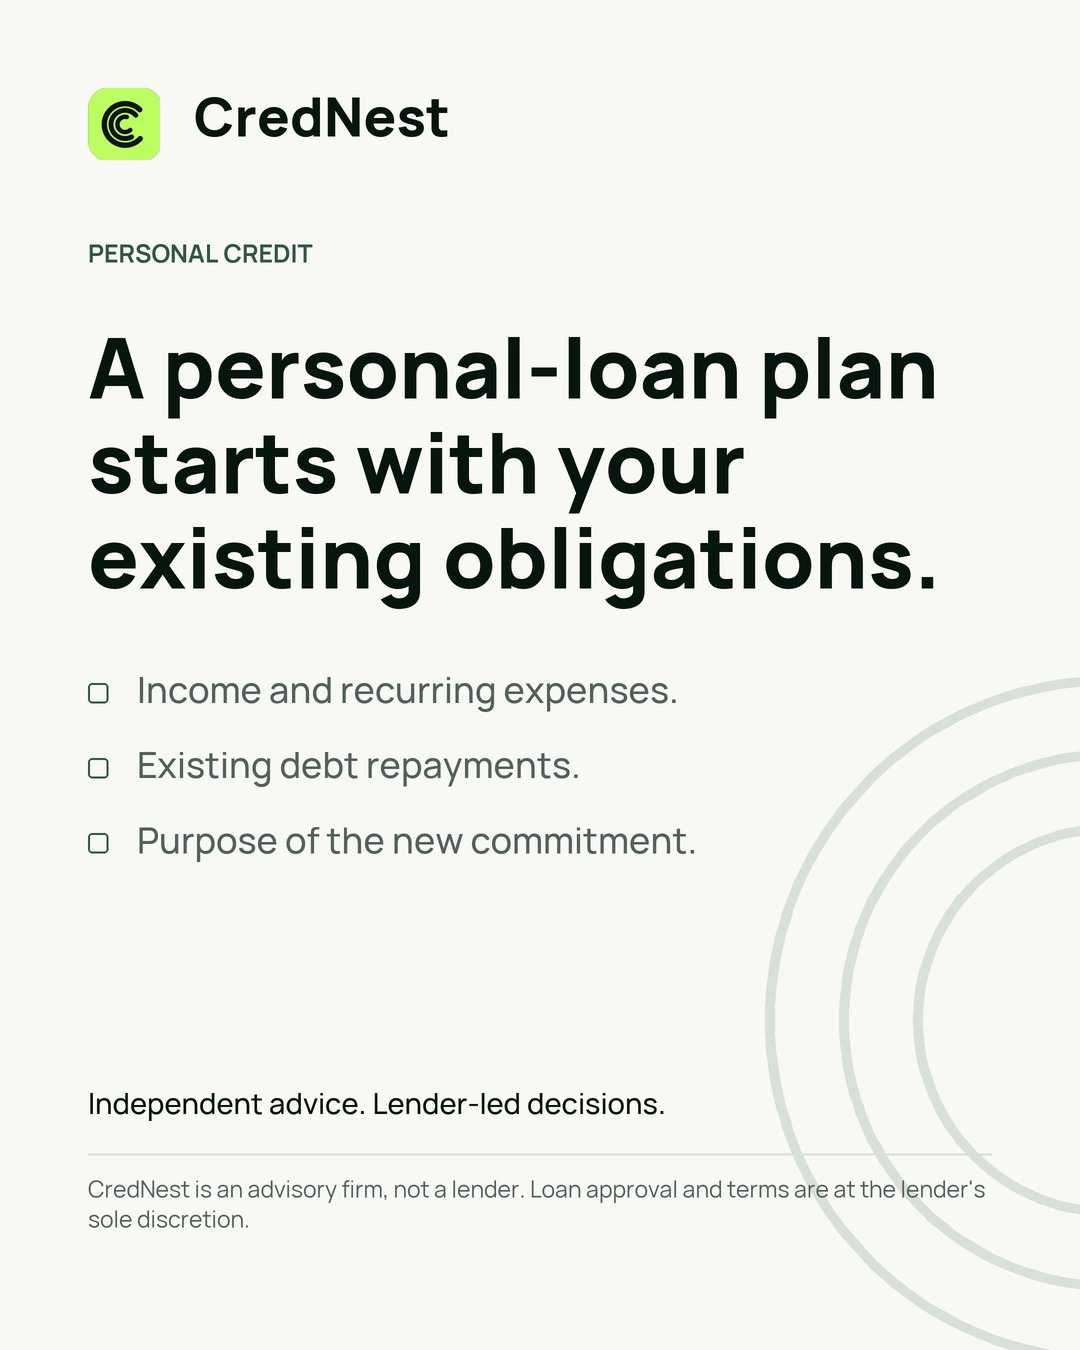
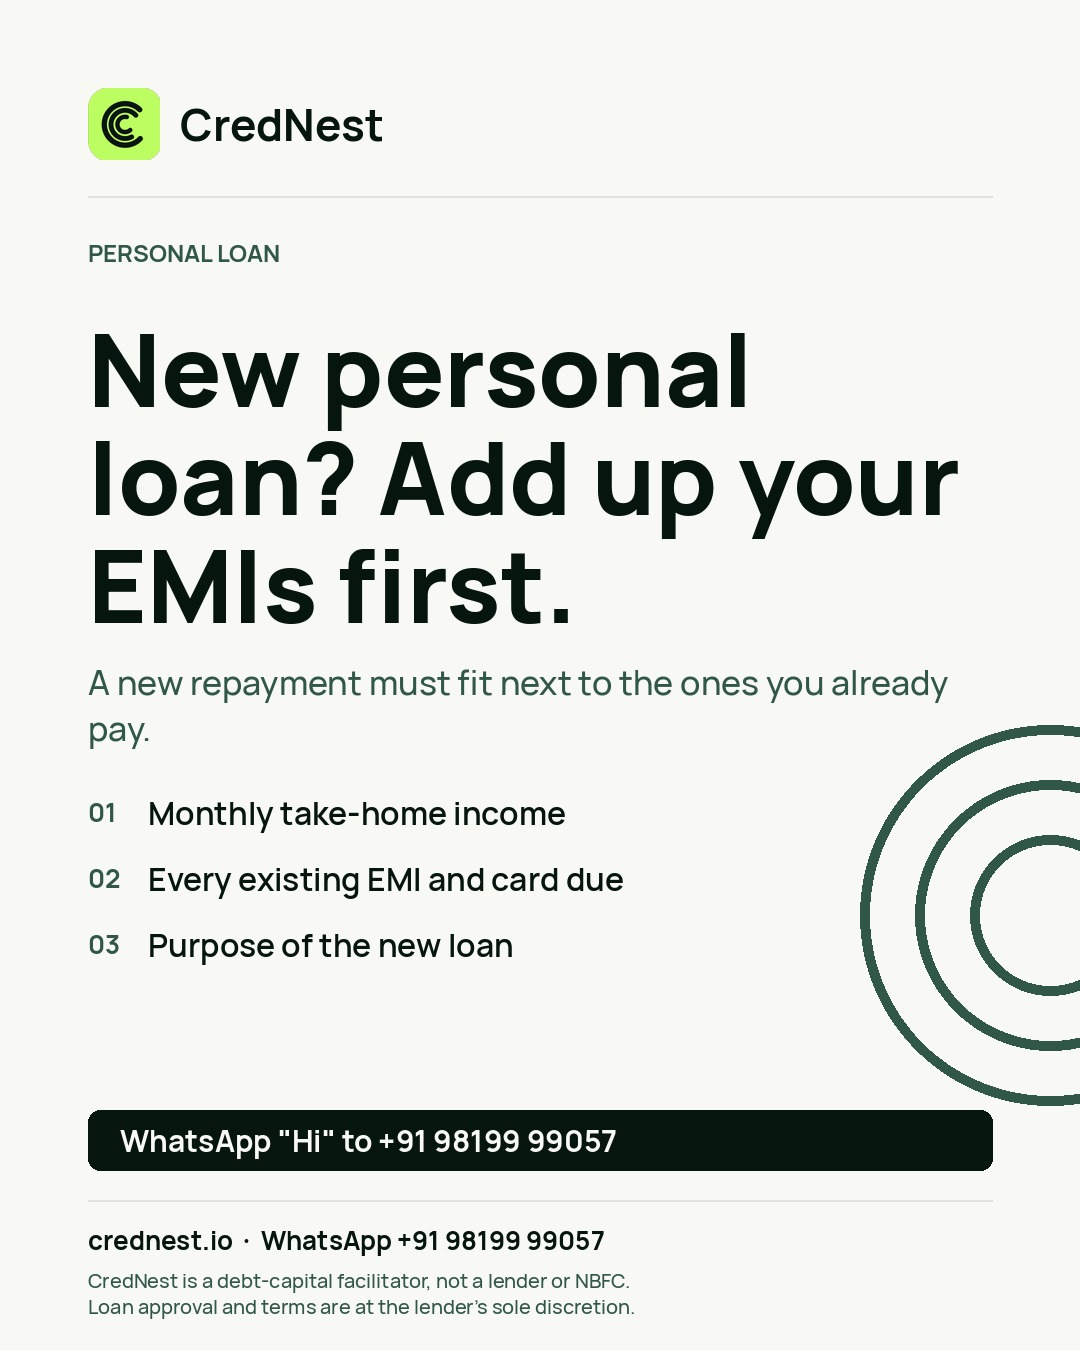
Hook-first refresh for 22 Oct-12 Nov queue
- 13 new hook covers/cards (scripts/render_hooks.py)
- 23 captions: hook line first, one rotating CTA, single disclaimer
- AGENTS.md: hook rules, CTA rotation, disclaimer locked
- engage.json + BRIEF.md: disclaimer unified

Claude-Session: https://claude.ai/code/session_01S8uKRsC3StANpccHU66rp6

diff --git a/scripts/render_hooks.py b/scripts/render_hooks.py
@@ -1,0 +1,181 @@
+"""Render hook-first cover slides and single-image cards in the CredNest layout.
+
+Usage: python scripts/render_hooks.py            # renders every spec in SPECS
+       python scripts/render_hooks.py D20-feed   # renders one
+
+Writes media/<id>/01.jpg (1080 x 1350, JPEG). Other carousel slides are untouched.
+"""
+import sys
+from pathlib import Path
+from PIL import Image, ImageDraw, ImageFont
+
+ROOT = Path(__file__).resolve().parents[1]
+FONTS = ROOT / "brand/03_Fonts"
+LOGO = ROOT / "brand/04_Logos/CredNest_Icon_Source_Transparent_120.png"
+W, H, M = 1080, 1350, 88
+
+LIME, INK, DEEP, FOREST, PAPER, MINT = "#B8FF5A", "#07150F", "#0D2119", "#315746", "#F8F8F4", "#9DF3C5"
+THEMES = {
+    "dark":   dict(bg=DEEP,  head=PAPER, kicker=LIME,   sub="#C9D4CE", body=PAPER, rule="#24402F", ring=FOREST, bar=LIME, bar_text=INK, foot="#9FB2A8"),
+    "forest": dict(bg=FOREST, head=PAPER, kicker=LIME,  sub="#DCE6E0", body=PAPER, rule="#4B7361", ring="#5C8572", bar=LIME, bar_text=INK, foot="#C9D8D0"),
+    "paper":  dict(bg=PAPER, head=INK,   kicker=FOREST, sub=FOREST,    body=INK,   rule="#E1E4DD", ring=FOREST, bar=INK, bar_text=PAPER, foot=FOREST),
+    "lime":   dict(bg=LIME,  head=INK,   kicker=INK,    sub="#1E3A2C", body=INK,   rule="#9ED24A", ring="#8FCC3F", bar=INK, bar_text=LIME, foot="#1E3A2C"),
+}
+DISCLAIMER = "CredNest is a debt-capital facilitator, not a lender or NBFC.\nLoan approval and terms are at the lender's sole discretion."
+
+
+def f(size, weight="Extrabold"):
+    return ImageFont.truetype(str(FONTS / f"Manrope-{weight}.ttf"), size)
+
+
+def wrap(draw, text, face, width):
+    lines = []
+    for para in text.split("\n"):
+        cur = ""
+        for w in para.split():
+            t = (cur + " " + w).strip()
+            if draw.textlength(t, font=face) <= width or not cur:
+                cur = t
+            else:
+                lines.append(cur); cur = w
+        lines.append(cur)
+    return lines
+
+
+def fit_headline(draw, text, width, max_lines, start=104, floor=64):
+    size = start
+    while size >= floor:
+        face = f(size)
+        lines = wrap(draw, text, face, width)
+        if len(lines) <= max_lines:
+            return face, lines, size
+        size -= 4
+    return face, lines, size
+
+
+def render(spec):
+    th = THEMES[spec["theme"]]
+    im = Image.new("RGB", (W, H), th["bg"])
+    d = ImageDraw.Draw(im)
+
+    # decorative rings (bottom right), drawn first so text sits on top
+    cx, cy = (1080, 1060) if spec["layout"] == "cover" else (1050, 915)
+    for r in ((300, 230, 160) if spec["layout"] == "cover" else (190, 135, 80)):
+        d.ellipse([cx - r, cy - r, cx + r, cy + r], outline=th["ring"], width=10)
+    if spec["layout"] == "card":  # keep rings to the right edge strip only
+        d.rectangle([0, 760, 830, 1080], fill=th["bg"])
+
+    logo = Image.open(LOGO).convert("RGBA").resize((72, 72), Image.LANCZOS)
+    im.paste(logo, (M, 88), logo)
+    d.text((M + 92, 124), "CredNest", font=f(44, "Bold"), fill=th["head"], anchor="lm")
+    d.line([M, 196, W - M, 196], fill=th["rule"], width=2)
+
+    d.text((M, 236), spec["kicker"].upper(), font=f(24, "Bold"), fill=th["kicker"])
+
+    cover = spec["layout"] == "cover"
+    y = 330 if cover else 300
+    face, lines, size = fit_headline(d, spec["headline"], W - 2 * M, 4 if cover else 3,
+                                     start=124 if cover else 100)
+    lh = int(size * 1.08)
+    for ln in lines:
+        d.text((M, y), ln, font=face, fill=th["head"]); y += lh
+    y += 34
+    for ln in wrap(d, spec["sub"], f(34, "Medium"), W - 2 * M):
+        d.text((M, y), ln, font=f(34, "Medium"), fill=th["sub"]); y += 46
+
+    if spec["layout"] == "card":
+        y = y + 44
+        for n, item in enumerate(spec["points"], 1):
+            d.text((M, y), f"0{n}", font=f(26, "Bold"), fill=th["kicker"])
+            d.text((M + 60, y - 4), item, font=f(32, "Semibold"), fill=th["body"]); y += 66
+        bar_y = 1110
+    else:
+        bar_y = 1110 if spec.get("bar") else None
+
+    if spec.get("case_tag"):
+        d.text((M, 1158 if cover else 1072), "Illustrative scenario, not a client case or testimonial.", font=f(22, "Medium"), fill=th["foot"])
+    if not cover:
+        assert y <= 1070, f"{spec['id']}: points overflow ({y})"
+    if bar_y and spec.get("bar"):
+        d.rounded_rectangle([M, bar_y, W - M, bar_y + 60], radius=12, fill=th["bar"])
+        d.text((M + 32, bar_y + 30), spec["bar"], font=f(30, "Bold"), fill=th["bar_text"], anchor="lm")
+    if spec.get("swipe"):
+        d.text((M, 1108), "Swipe →", font=f(32, "Bold"), fill=th["kicker"])
+
+    d.line([M, 1200, W - M, 1200], fill=th["rule"], width=2)
+    d.text((M, 1222), "crednest.io  ·  WhatsApp +91 98199 99057", font=f(26, "Bold"), fill=th["head"])
+    yy = 1266
+    for ln in DISCLAIMER.split("\n"):
+        d.text((M, yy), ln, font=f(20, "Medium"), fill=th["foot"]); yy += 26
+
+    out = ROOT / "media" / spec["id"] / "01.jpg"
+    out.parent.mkdir(parents=True, exist_ok=True)
+    im.save(out, "JPEG", quality=92, optimize=True)
+    return out
+
+
+SPECS = [
+    # carousels: cover only, hook first
+    dict(id="D09-feed", layout="cover", theme="dark", kicker="LC & BG", swipe=True, case_tag=True,
+         headline="Contract won. Bank guarantee needed first?",
+         sub="What to organise before the LC or BG discussion."),
+    dict(id="D10-feed", layout="cover", theme="forest", kicker="Loan against property", swipe=True,
+         headline="Loan against property? Keep these papers ready first.",
+         sub="Ownership, income, banking and existing EMIs, in one file."),
+    dict(id="D16-feed", layout="cover", theme="forest", kicker="Project finance", swipe=True,
+         headline="New project. CMA or DPR: what does the lender need?",
+         sub="Save this before the project-finance meeting."),
+    dict(id="D20-feed", layout="cover", theme="paper", kicker="Myth vs fact", swipe=True,
+         headline="Property de di. Loan pakka? Nahi.",
+         sub="Security and repayment are assessed separately."),
+    dict(id="D21-feed", layout="cover", theme="dark", kicker="Credit preparation", swipe=True, case_tag=True,
+         headline="Bank statement says one thing. ITR says another?",
+         sub="Make the numbers tell one story before the lender asks."),
+    # single images: full card
+    dict(id="D13-feed", layout="card", theme="paper", kicker="Personal loan",
+         headline="New personal loan? Add up your EMIs first.",
+         sub="A new repayment must fit next to the ones you already pay.",
+         points=["Monthly take-home income", "Every existing EMI and card due", "Purpose of the new loan"],
+         bar="WhatsApp \"Hi\" to +91 98199 99057"),
+    dict(id="D18-feed", layout="card", theme="lime", kicker="Loan against property",
+         headline="Property hai. Repayment plan hai?",
+         sub="Owning property is not the same as repayment ability.",
+         points=["Purpose of the funds", "Income and ITR records", "Existing EMIs and limits"],
+         bar="WhatsApp \"Hi\" to +91 98199 99057"),
+    dict(id="D19-new", layout="card", theme="dark", kicker="Existing debt",
+         headline="Already paying a loan on your property?",
+         sub="Review the current commitment before any top-up or transfer.",
+         points=["Outstanding and tenure left", "Business cash flow today", "What the change should solve"],
+         bar="Comment CHECKLIST for the free list"),
+    dict(id="D22-new", layout="card", theme="paper", kicker="Business loans",
+         headline="Next business loan? Put every EMI on one page.",
+         sub="Lenders read your existing debt before your new request.",
+         points=["Each facility and lender", "Outstanding and monthly outgo", "Use of the new funds"],
+         bar="Comment CHECKLIST for the free list"),
+    dict(id="D23-new", layout="card", theme="forest", kicker="Working capital",
+         headline="CC renewal in 60 days? Start here.",
+         sub="Renewal files move faster when these are ready early.",
+         points=["Latest financials and GST returns", "12 months of banking", "Debtor and creditor ageing"],
+         bar="Comment CHECKLIST for the free list"),
+    dict(id="D25-new", layout="card", theme="dark", kicker="Loan against property",
+         headline="Business ke liye LAP? Purpose pehle, property baad mein.",
+         sub="The use of funds drives the structure, not the other way round.",
+         points=["What the money will do", "How it gets repaid", "Property and title records"],
+         bar="WhatsApp \"Hi\" to +91 98199 99057"),
+    dict(id="D27-feed", layout="card", theme="paper", kicker="Loan against property", case_tag=True,
+         headline="Property worth crores. Collections slow. Now what?",
+         sub="Property value and repayment ability are different questions.",
+         points=["Title and valuation", "Cash flow and collections", "Existing obligations"],
+         bar="Comment CHECKLIST for the free list"),
+    dict(id="D30-new", layout="card", theme="lime", kicker="Start a conversation",
+         headline="Funding chahiye? Purpose aur timeline bhejo.",
+         sub="One WhatsApp message. We come back with the next step.",
+         points=["What the funds will support", "Amount range and timeline", "City and business type"],
+         bar="WhatsApp \"Hi\" to +91 98199 99057"),
+]
+
+if __name__ == "__main__":
+    only = set(sys.argv[1:])
+    for s in SPECS:
+        if not only or s["id"] in only:
+            print("rendered", render(s).relative_to(ROOT))

diff --git a/BRIEF.md b/BRIEF.md
@@ -6,7 +6,7 @@ For each item below:
 
 1. Design one 1080 × 1350 JPEG (quality 90+, sRGB) and save it as the path shown.
 2. The headline must be **new wording** built from the caption. Do not reuse the old headline listed (it is already on the grid).
-3. Footer line on the image: `CredNest is an advisory firm, not a lender.`
+3. Footer line on the image: `CredNest is a debt-capital facilitator, not a lender or NBFC.`
 4. In `queue.json`, set that item's `status` to `"review"`. Claude reviews and switches it to `ready`.
 5. Run `python scripts/publish.py --check` before opening the PR.
 
@@ -27,7 +27,7 @@ Independent advice. Lender-led decisions.
 
 #CredNest #LoanAgainstProperty #CapitalPlanning #MumbaiBusiness #CreditClarity
 
-CredNest is an advisory firm, not a lender. Loan approval and terms are at the lender's sole discretion.
+CredNest is a debt-capital facilitator, not a lender or NBFC. Loan approval and terms are at the lender's sole discretion.
 ```
 
 ## D22-new · 2026-11-04 12:30 IST
@@ -47,7 +47,7 @@ Independent advice. Lender-led decisions.
 
 #CredNest #BusinessLoan #MSMEFinance #MumbaiBusiness #CreditClarity
 
-CredNest is an advisory firm, not a lender. Loan approval and terms are at the lender's sole discretion.
+CredNest is a debt-capital facilitator, not a lender or NBFC. Loan approval and terms are at the lender's sole discretion.
 ```
 
 ## D23-new · 2026-11-05 12:30 IST
@@ -67,7 +67,7 @@ Independent advice. Lender-led decisions.
 
 #CredNest #WorkingCapital #BusinessCashFlow #MumbaiBusiness #CreditClarity
 
-CredNest is an advisory firm, not a lender. Loan approval and terms are at the lender's sole discretion.
+CredNest is a debt-capital facilitator, not a lender or NBFC. Loan approval and terms are at the lender's sole discretion.
 ```
 
 ## D25-new · 2026-11-07 12:30 IST
@@ -87,7 +87,7 @@ Independent advice. Lender-led decisions.
 
 #CredNest #LoanAgainstProperty #CapitalPlanning #MumbaiBusiness #CreditClarity
 
-CredNest is an advisory firm, not a lender. Loan approval and terms are at the lender's sole discretion.
+CredNest is a debt-capital facilitator, not a lender or NBFC. Loan approval and terms are at the lender's sole discretion.
 ```
 
 ## D28-new · 2026-11-10 19:30 IST
@@ -107,7 +107,7 @@ Independent advice. Lender-led decisions.
 
 #CredNest #WorkingCapital #BusinessCashFlow #MumbaiBusiness #CreditClarity
 
-CredNest is an advisory firm, not a lender. Loan approval and terms are at the lender's sole discretion.
+CredNest is a debt-capital facilitator, not a lender or NBFC. Loan approval and terms are at the lender's sole discretion.
 ```
 
 ## D30-new · 2026-11-12 19:30 IST
@@ -127,5 +127,5 @@ Independent advice. Lender-led decisions.
 
 #CredNest #BusinessLoan #MSMEFinance #MumbaiBusiness #CreditClarity
 
-CredNest is an advisory firm, not a lender. Loan approval and terms are at the lender's sole discretion.
+CredNest is a debt-capital facilitator, not a lender or NBFC. Loan approval and terms are at the lender's sole discretion.
 ```

diff --git a/AGENTS.md b/AGENTS.md
@@ -19,12 +19,20 @@ You make Instagram content for CredNest (@crednest.io). Claude writes the brief 
 JPEG only (Instagram API rejects PNG). Each file under 8 MB.
 
 ## Compliance (non-negotiable)
-- CredNest is an advisory firm, not a lender or NBFC. Never imply approval, guaranteed sanction, specific rates, "lowest EMI", bank tie-ups or lender names.
+- CredNest is a debt-capital facilitator, not a lender or NBFC. Never imply approval, guaranteed sanction, specific rates, "lowest EMI", bank tie-ups or lender names.
 - No client names, results or testimonials. Case stories are labelled "Illustrative scenario, not a client case or testimonial."
 - Any market fact needs a source (RBI, CIBIL, SIDBI, CRIF, government circular) recorded in the PR description.
-- Feed/reel captions end with the hashtags, then: "CredNest is an advisory firm, not a lender. Loan approval and terms are at the lender's sole discretion." Max 5 hashtags.
+- Feed/reel captions end with the hashtags, then exactly: "CredNest is a debt-capital facilitator, not a lender or NBFC. Loan approval and terms are at the lender's sole discretion." Max 5 hashtags. Use no other disclaimer wording.
 - WhatsApp contact: +91 98199 99057.
-- Lead CTA: every feed post and reel caption includes the line "💬 Comment CHECKLIST and we will DM you our free credit-pack checklist." placed just before "Independent advice. Lender-led decisions." Reels end card may also say "Comment CHECKLIST".
+- One CTA per caption, rotated across the week: either "💬 Comment CHECKLIST and we'll DM you the free credit-pack checklist." or 'WhatsApp "Hi" to +91 98199 99057.' Roughly 60% CHECKLIST, 40% WhatsApp. "Independent advice. Lender-led decisions." on at most one post in four.
+
+## Hooks (applies to every new item)
+- Caption line 1 and the image headline are the hook: a specific pain, question or number the owner recognises ("CC renewal in 60 days? Start here."). Under 70 characters.
+- Banned as headlines: abstract brand lines such as "X is part of the capital conversation", "Numbers tell a business story", "needs a relevant fit". Brand lines go in the body, not the hook.
+- The "Illustrative scenario" tag goes in the caption's second paragraph and small on the image, never as the opening line or first reel frame.
+- 1–2 Hinglish hooks per week in Roman script; finance terms and disclaimer stay in English.
+- Any market fact must be checked against its source the week it posts; record the source in the PR.
+- `scripts/render_hooks.py` renders hook covers and single-image cards in the house layout; add a spec and run it.
 
 ## Reels and voice
 Do not use Windows/system text-to-speech. Put the narration lines in `voice_scenes` (`start`, `end`, `text`) and set status `needs_voice`; the "Re-voice reels" workflow adds the Sarvam voice.
